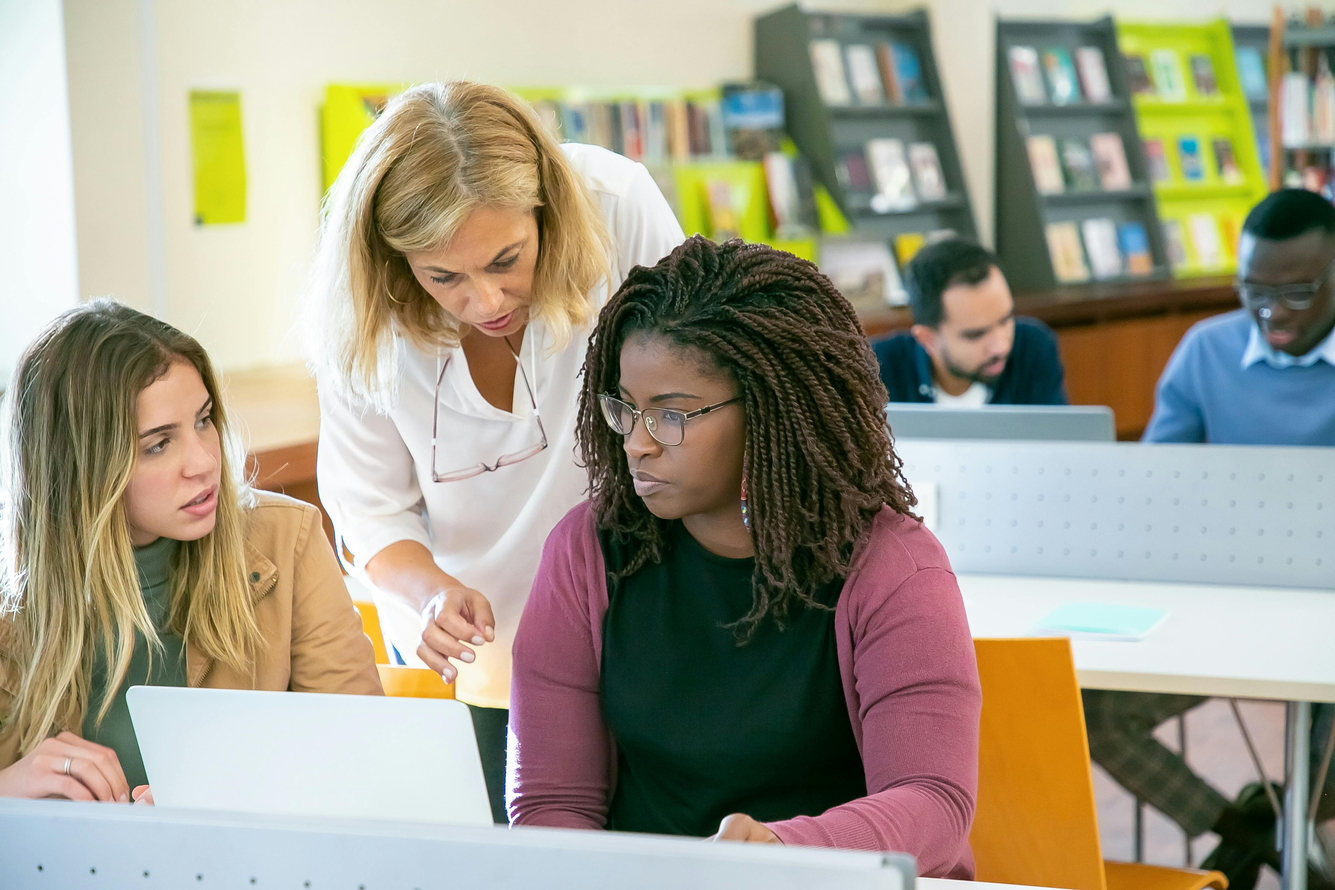
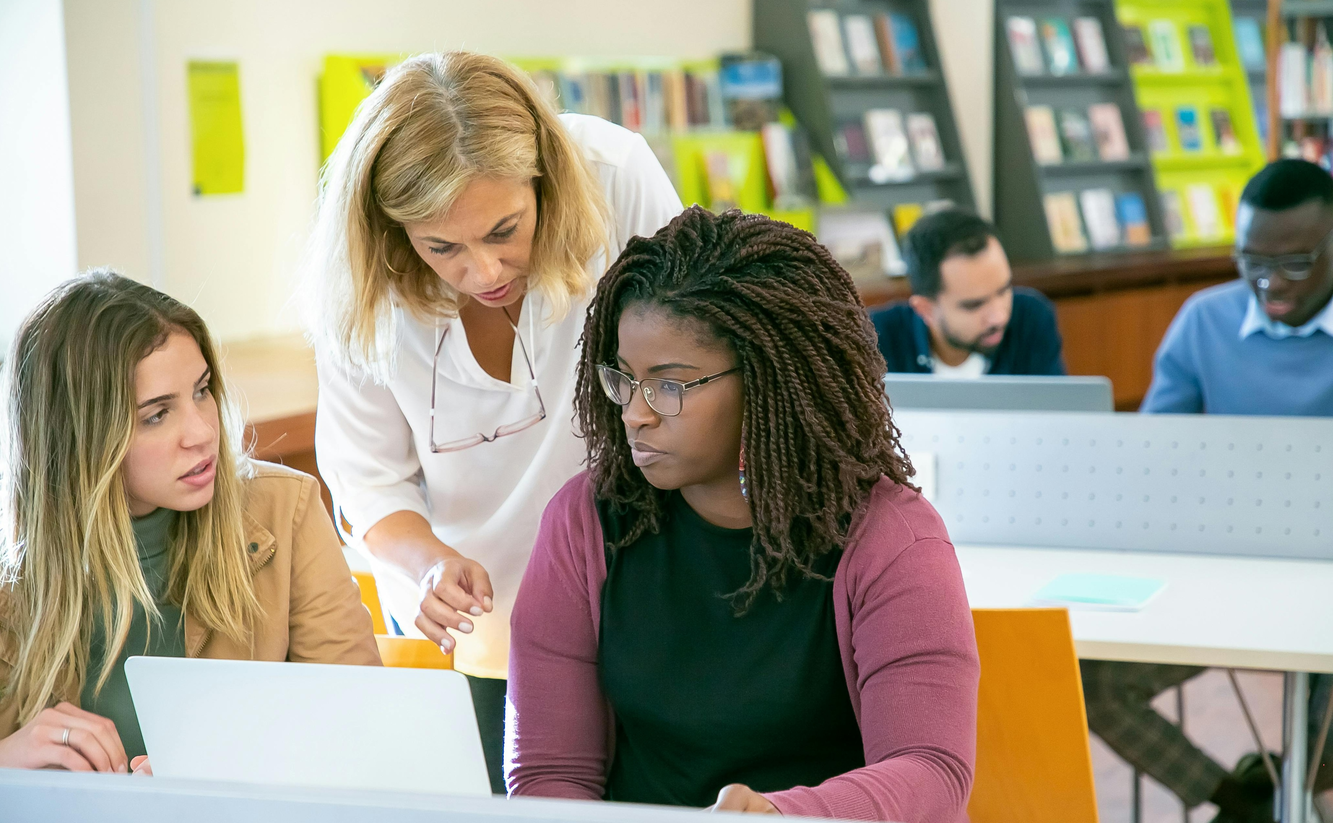
done

diff --git a/Home.html b/Home.html
@@ -104,16 +104,13 @@
                 height: 500px;
                 margin: 0 70px;
             }
-
             .gloabPainText{
                 width: 350px;
                 
             }
-
             .WelcomeText{
                 font-size: 40px;
             }
-
             .ApplyButton .ApplyLink{
                 display: flex;
                 justify-content: center;
@@ -126,11 +123,9 @@
                 border-radius: 10px; 
                 font-size: 20px; 
             }
-
             .ApplyButton:hover .ApplyLink:hover{
                 background-color: #f6782b; 
             }
-
             .slideshow-container {
                 width: 800px;
                 height: 450px;
@@ -138,29 +133,26 @@
                 position: relative;
                 overflow: hidden;
             }
-
             .slide {
                 position: absolute;
                 width: 800px;
                 height: 500px;
                 opacity: 0;
                 transition: opacity 1s ease-in-out;
-                transform: translate(134px, -250px); /* Move right by 100px and up by 100px */
+                transform: translate(134px, -250px); /* Move right by 134px and up by 250px */
             }
-
             .slide img {
                 width: 100%;  
                 height: 100%; 
-                object-fit: cover; 
+                object-fit: contain;
                 display: block;
                 border-radius: 10px;
             }
-
             .active {
                 opacity: 1;
                 z-index: 2; 
             }
-
+            /* Introduction Section */
             .Intro {
                 background-color: #f4f4f4;
                 padding: 40px 70px; 
@@ -172,7 +164,6 @@
                 text-align: center; 
                 margin-bottom: 20px; 
             }
-
             .IntroText1, .IntroText2 {
                 color: #000; 
                 font-size: 18px; 
@@ -186,13 +177,11 @@
                 margin: 20px 70px;
                 border-radius: 10px;
             }
-
             .classOverviewSection h1, .courseObjectivesSection h1 {
                 color: #1848C2;
                 text-align: center;
                 margin-bottom: 20px;
             }
-
             .classOverviewSection p, .courseObjectivesSection ul, .courseObjectivesSection p {
                 color: #000;
                 font-size: 18px;
@@ -200,7 +189,6 @@
                 text-align: justify;
                 line-height: 1.6;
             }
-
             .courseObjectivesSection ul {
                 list-style-type: disc;
                 margin-left: 20px;
@@ -216,7 +204,6 @@
                 text-align: center; 
                 margin-bottom: 20px; 
             }
-
             .SubText {
                 color: #000; 
                 font-size: 18px; 
@@ -224,35 +211,7 @@
                 text-align: center; 
                 line-height: 1.6; 
             }
-
-            .SubscribeForm form {
-                display: flex;
-                justify-content: center;
-                gap: 10px;
-                margin-top: 20px;
-            }
-
-            .SubscribeForm input[type="email"] {
-                width: 300px;
-                padding: 10px;
-                border: 1px solid #ccc;
-                border-radius: 5px;
-                font-size: 18px;
-            }
-
-            .SubscribeForm button {
-                padding: 10px 20px;
-                background-color: #1848C2;
-                color: white;
-                border: none;
-                border-radius: 5px;
-                cursor: pointer;
-                font-size: 18px;
-            }
-
-            .SubscribeForm button:hover {
-                background-color: #f6782b;
-            }
+            /* Contact Section */
             .contact-section {
                 background-color: #f4f4f4;
                 padding: 40px 20px;
@@ -364,39 +323,6 @@
                  The certificate with Honors may assist in advancement of their academic careers.
             </p>
         </div>
-        <!--
-        <div class="classOverviewSection">
-            <h1>Class Overview</h1>
-            <p>
-                This is a course designed for anesthesiology residents, fellows, or faculty, who are interested in 
-                regional anesthesia and pain medicine. Through integrating traditional and new pedagogic methods, 
-                this program will help you enhancing clinical skills while staying on top of the latest trends and 
-                developments. Our learning model is comprised of live online lectures, live quiz, real time quiz 
-                results, and quiz discussion. This 12-month program will cover key topics suggested by the ‘American 
-                Board of Anesthesiology’ .The Interactive quiz will help review concepts and provide a deeper 
-                understanding of the topics. Individual and team assignments on scientific writing will help you 
-                position yourself for a successful, multifaceted career in pain medicine.
-            </p>
-        </div>
-        
-        <div class="courseObjectivesSection">
-            <h1>Course Learning Objectives</h1>
-            <ul>
-                <li>Get a broad overview of regional anesthesia and pain medicine</li>
-                <li>Understand how common block and/pain procedure are performed by reading texts and video clips</li>
-                <li>Get prepared for in-training exam and board exam</li>
-            </ul>
-            <p><b>Required textbook</b>: Anesthesiology in-training exam review book</p>
-            <div style="display: flex; align-items: start;">
-                <img src="photos/AnesthesiologyTextbook.webp" style="width: 150px; margin-right: 20px;">
-                <ul>
-                    <li><a href="https://link.springer.com/book/10.1007/978-3-030-87266-3" target="_blank">Springer link</a></li>
-                    <li><a href="https://www.amazon.com/Anesthesiology-In_Training-Exam-Review_-Regional-Anesthesia-and-Chronic-Pain/dp/3030872653/ref=sr_1_1?crid=3IOIHEAY67HHP&keywords=anesthesiology+in+training+exam+review&qid=1642445355&sprefix=anesthesiology+in+training+exam+review%2Caps%2C108&sr=8-1" target="_blank">Amazon link</a></li>
-                    <li><a href="https://books.google.com/books?id=K6deEAAAQBAJ&newbks=0&printsec=frontcover&pg=PR4&dq=in-training+banik&hl=en&source=newbks_fb#v=onepage&q=in-training%20banik&f=false" target="_blank">Googlebook preview</a></li>
-                </ul>
-            </div>
-        </div>
-        -->
         <div class = "Subscribe">
             <p> <h1>Don't miss out</h1> </p>
             <p class = "SubText">
@@ -411,19 +337,20 @@
         </div>
         <div class="contact-section">
             <h1>Contact Us</h1>
-            <form action="https://formspree.io/f/moqgzbry" method="POST" class="contact-form">
+            <form action="https://www.jotform.com/build/241519322122142/publish/embed" method="POST" class="contact-form">
                 <input type="text" name="name" placeholder="Your Name" required>
                 <input type="email" name="email" placeholder="Your Email" required>
                 <textarea name="message" placeholder="Your Message" required></textarea>
                 <button type="submit">Send</button>
             </form>
+            <script type="text/javascript" src="https://form.jotform.com/jsform/241519597602058"></script>
         </div>
     
     </div>
+    <!-- JavaScript for slideshow -->
     <script>
         var slides = document.querySelectorAll('.slide');
         var currentSlide = 0;
-
         function nextSlide() {
         slides[currentSlide].classList.remove('active');
         currentSlide = (currentSlide+1) % slides.length;

diff --git a/NewsAndEvents.html b/NewsAndEvents.html
@@ -193,7 +193,7 @@
             <div class="tab">
                 <button class="tablinks" onclick="openGraduation(event, 'graduation-23-24')" id="defaultOpen">Graduation 2023-2024</button>
                 <button class="tablinks" onclick="openGraduation(event, 'graduation-24-25')">Graduation 2024-2025</button>
-                <!-- Add more buttons for additional graduations -->
+                <!-- Add more tabs for additional graduations -->
             </div>
 
             <!-- Graduation content -->
@@ -268,6 +268,7 @@
             </div>
             <!-- Add more additional graduations if needed -->
         </div>
+        <!-- JavaScript for opening tabs -->
         <script>
             function openGraduation(evt, graduationName) {
                 var i, tabcontent, tablinks;
@@ -282,7 +283,7 @@
                 document.getElementById(graduationName).style.display = "block";
                 evt.currentTarget.className += " active";
             }
-            // Simulate a click on the "Graduation 2023-2024" tab when the page loads
+            //Simulate a click on the "Graduation 2023-2024" tab when the page loads
             document.addEventListener("DOMContentLoaded", function() {
                 document.getElementById("defaultOpen").click();
             });

diff --git a/Program.html b/Program.html
@@ -165,6 +165,7 @@
             .scheduleSection li:last-child {
                 border-bottom: none;
             }
+            /* Tab styles */
             .tab {
                 overflow: hidden;
                 background-color: #f1f1f1;
@@ -293,7 +294,7 @@
                 <button class="tablinks" onclick="openProgram(event, 'Schedule')">Class Schedule</button>
                 <button class="tablinks" onclick="openProgram(event, 'Class')">Class Overview</button>
                 <button class="tablinks" onclick="openProgram(event, 'Objectives')">Objectives</button>
-                <!-- Add more buttons -->
+                <!-- Add more tabs here -->
             </div>
 
             <!-- Program content -->

diff --git a/Videos.html b/Videos.html
@@ -196,7 +196,7 @@
                 <!-- Add more buttons for additional graduations -->
             </div>
 
-            <!-- Graduation content -->
+            <!-- Video content -->
             <div id="graduation-23-24" class="graduation-content">
                 <div class = "Video">
                     <h1>Graduation Ceremony of 2023-2024 Fellows in <a href="https://en.wikipedia.org/wiki/Dhaka" target="_blank">Dhaka, Bangladesh</a></h1>

diff --git a/Graduates.html b/Graduates.html
@@ -196,7 +196,7 @@
                 <!-- Add more buttons for additional graduations -->
             </div>
 
-            <!-- Graduation content -->
+            <!-- Graduates content -->
             <div id="graduation-23-24" class="graduation-content">
                 <div class = "Graduates">
                     <h1>List of Graduates in 2023-2024</h1>

diff --git a/Testimonials.html b/Testimonials.html
@@ -196,7 +196,7 @@
                 <!-- Add more buttons for additional graduations -->
             </div>
 
-            <!-- Graduation content -->
+            <!-- Testimonials content -->
             <div id="graduation-23-24" class="graduation-content">
                 <div class = "Testimonials"> 
                     <p> <h1>Testimonials</h1>  </p>
